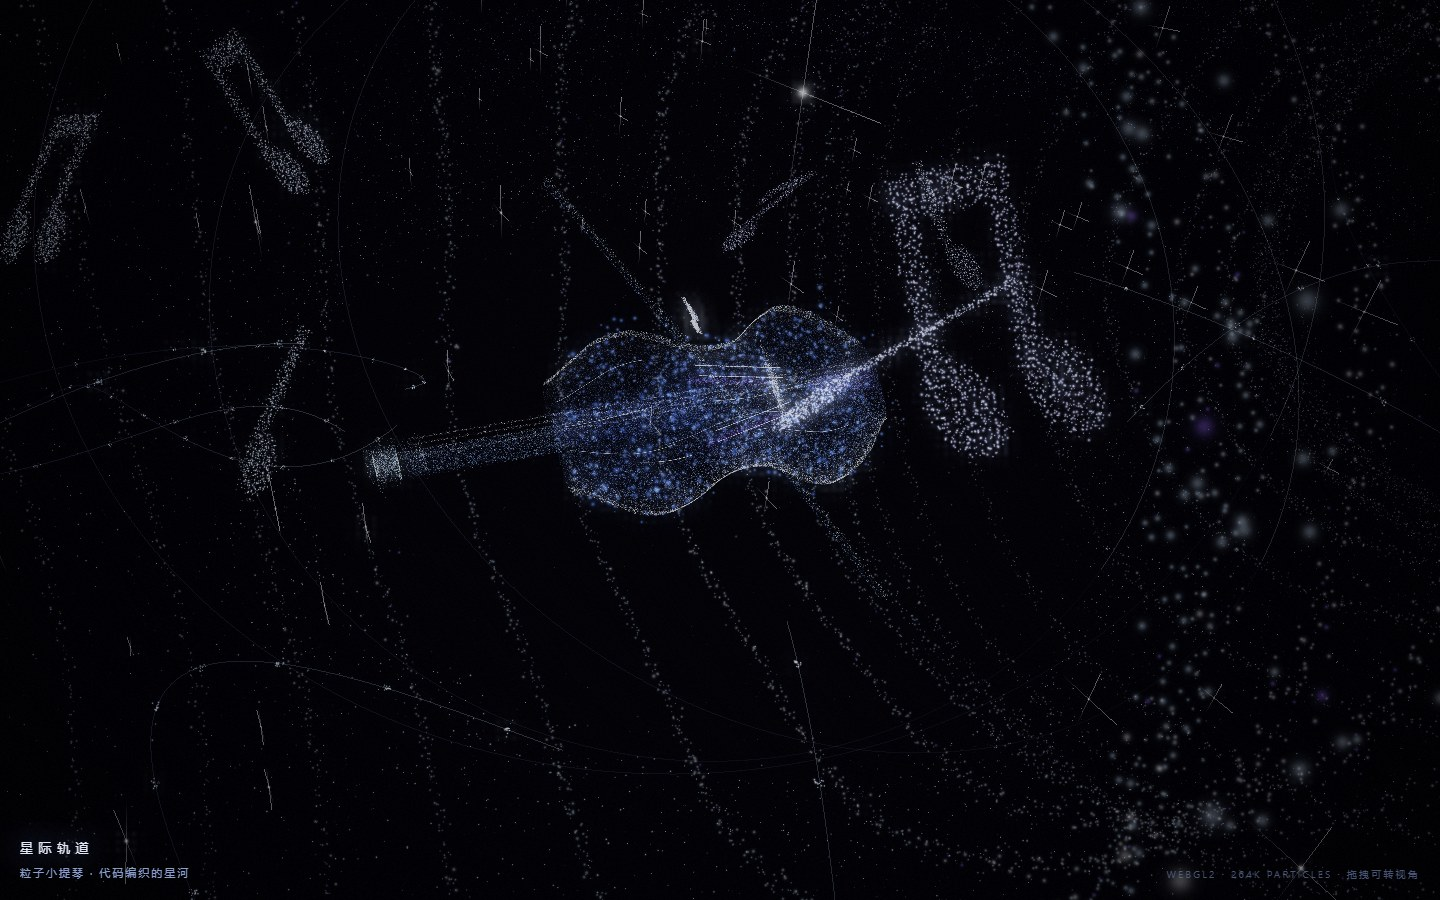
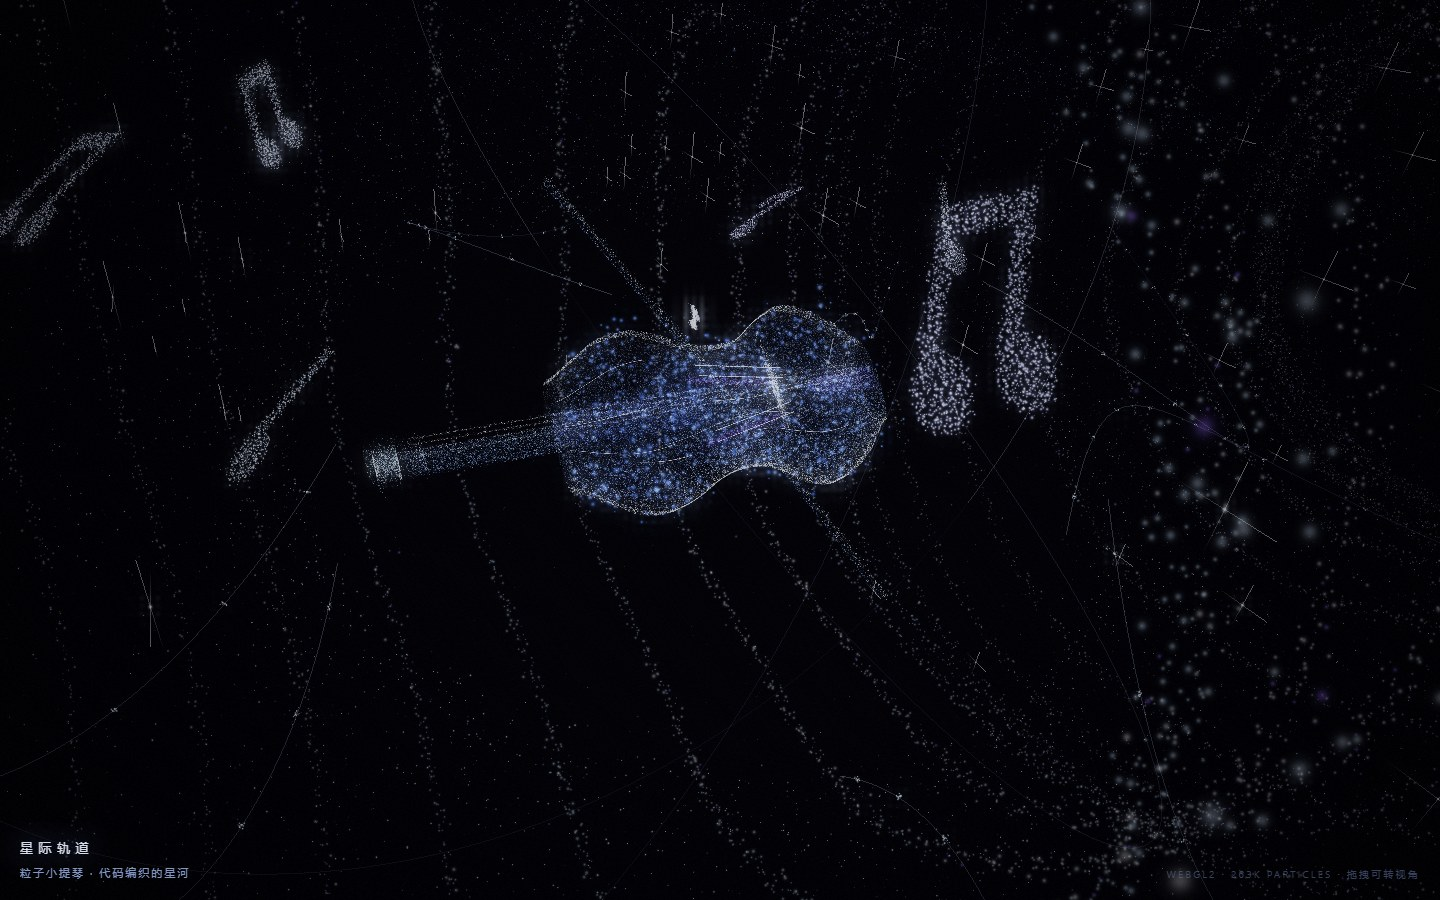
Interstellar Violin: dependency-free WebGL2 particle animation

diff --git a/app.js b/app.js
@@ -111,10 +111,10 @@
       const y = side * (0.012 + V.thick * surface * (0.55 + 0.65 * fbm(z * 9.5, v * 9.5, u * 6)));
       const f1 = fbm(z * 13 + 1.7, v * 13, u * 8 + 3.1);
       const f2 = fbm(z * 37, v * 37 + 9, u * 21);
-      let col = mixc(C.deep, C.ice, clamp(0.20 + f1 * 1.05, 0, 1));
-      col = mixc(col, C.white, Math.pow(clamp(f2, 0, 1), 2.2) * 1.1 * surface);
+      let col = mixc(C.deep, C.ice, clamp(0.32 + f1 * 1.05, 0, 1));
+      col = mixc(col, C.white, Math.pow(clamp(f2, 0, 1), 2.2) * 1.25 * surface);
       col = mixc(col, C.white, Math.pow(q, 7) * 0.95);            // 亮边
-      if (rnd() < 0.03) col = C.white;
+      if (rnd() < 0.06) col = C.white;
       if (hole) {
         col = mixc(C.deep, [0.05, 0.05, 0.22], rnd());             // 孔内压暗
       } else {
@@ -366,15 +366,15 @@
     if (!valid.length) return;
 
     // 音符散布在小提琴周围，略偏向面板一侧
-    for (let n = 0; n < 10; n++) {
+    for (let n = 0; n < 8; n++) {
       const glyph = valid[n % valid.length];
       const ang = rnd() * TAU;
       const rad = rr(6.5, 11.5);
       const cx = Math.cos(ang) * rad;
       const cz = Math.sin(ang) * rad * 1.3;
       const cy = rr(-4, 7);
-      const scale = rr(1.2, 2.4);
-      const spin = rnd() * TAU, tilt = rr(-0.5, 0.5);
+      const scale = rr(0.9, 1.8);
+      const spin = rnd() * TAU, tilt = TILT + rr(-0.3, 0.3);   // 大致贴着琴面，避免总是侧对镜头
       const cs = Math.cos(spin), sn = Math.sin(spin), ct = Math.cos(tilt), st = Math.sin(tilt);
       const col = mixc(mixc(C.ice, C.white, 0.55), C.violet, rnd() * 0.3);
       for (let i = 0; i < glyph.length; i += 1) {
@@ -801,7 +801,7 @@
     const ringDim = lerp(0.02, 1.0, smoothstep(24, 8, camR));
     const spins = [0.09 * Math.sin(t * 0.45), t * 0.28, t * 0.05, t * 0.03];
     const axes = [0, 1, 0, 0];
-    const alphas = FRONT ? [0.55, 0.05, 0, 0.05] : [0.55, 0.58, 0.9 * ringDim, 0.8];
+    const alphas = FRONT ? [0.66, 0.05, 0, 0.05] : [0.66, 0.58, 0.9 * ringDim, 0.8];
     gl.useProgram(progPoints.p);
     gl.uniformMatrix4fv(progPoints.u.uVP, false, vp);
     gl.uniform3f(progPoints.u.uCam, cam.x, cam.y, cam.z);
